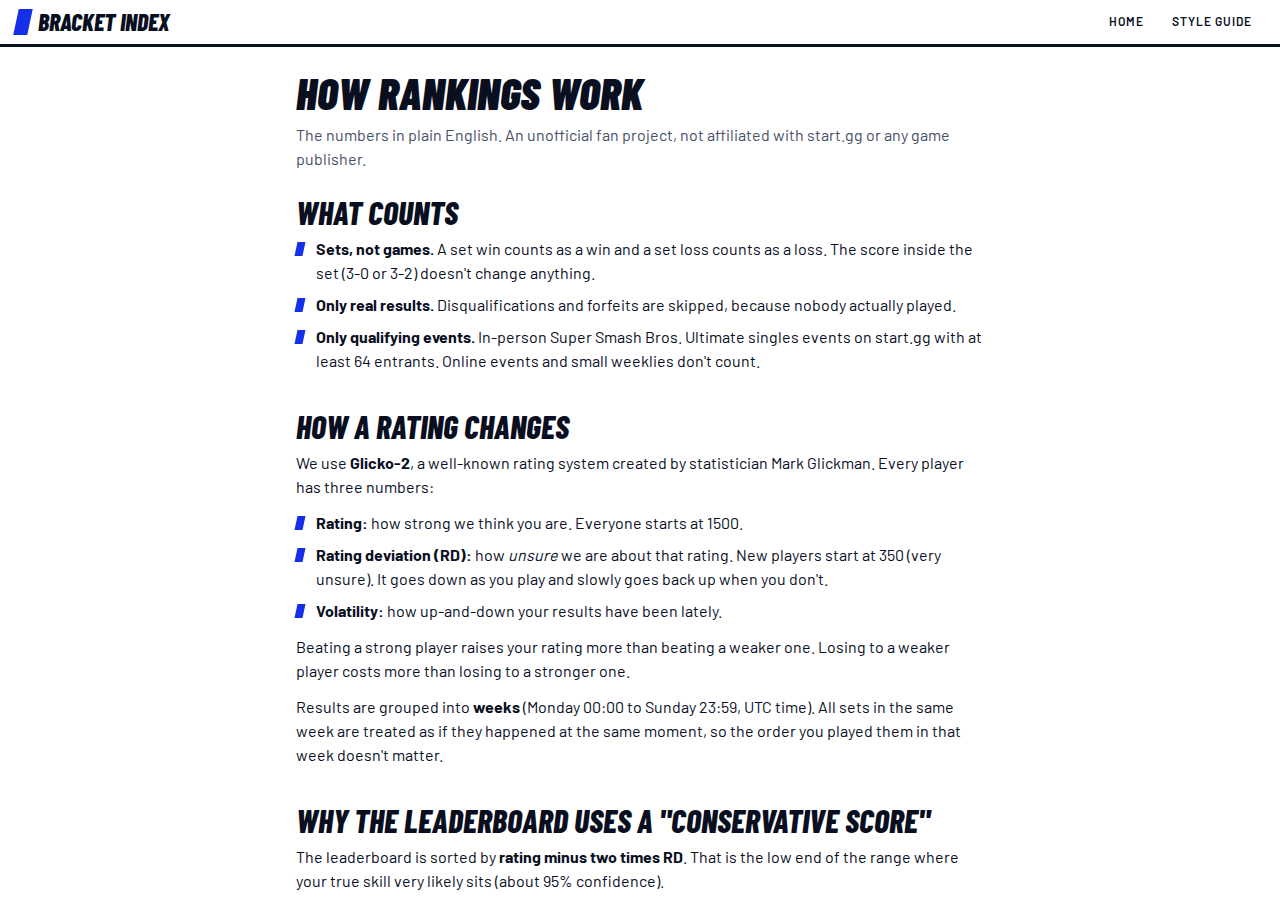
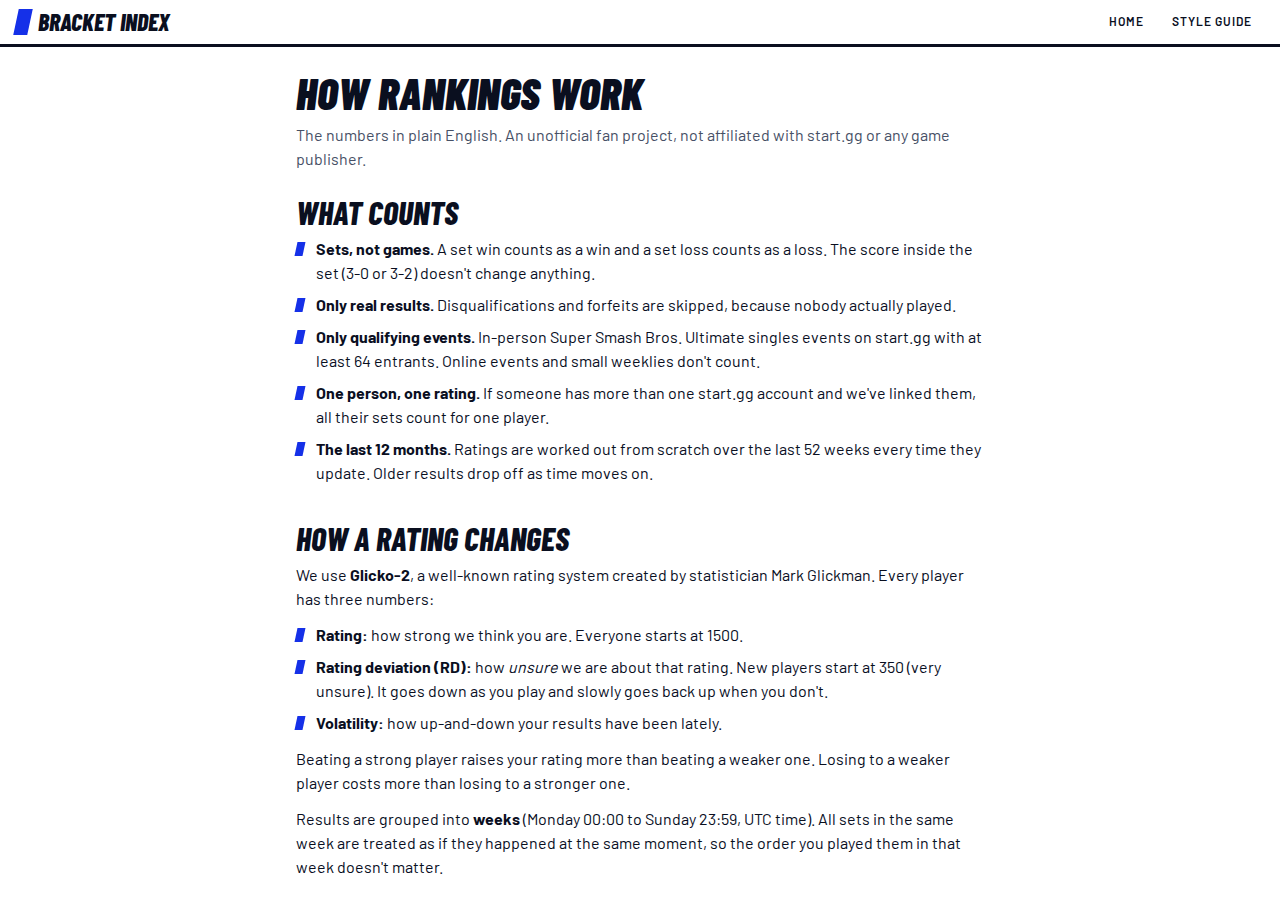
chore(app): resync methodology copy with docs/METHODOLOGY.md; STATUS entry
Claude-Session: https://claude.ai/code/session_01EmiPNYLaxRfYJT2qzBUjng

Changed region(s): [[0.2188, 0.4356, 0.7812, 0.9956]]

diff --git a/apps/app/src/lib/methodologyCopy.ts b/apps/app/src/lib/methodologyCopy.ts
@@ -1,6 +1,6 @@
 /**
  * The fan-friendly methodology text, kept word for word equal to the body of docs/METHODOLOGY.md.
- * methodology.test.ts fails if the two drift apart, so edit the doc first and paste the change here.
+ * markdown.test.ts fails if the two drift apart, so edit the doc first and paste the change here.
  * Plain markdown subset: "## " headings, "- " bullets, **bold**, _italic_, [links](https://...).
  */
 export const METHODOLOGY_MARKDOWN = `## What counts
@@ -8,6 +8,8 @@ export const METHODOLOGY_MARKDOWN = `## What counts
 - **Sets, not games.** A set win counts as a win and a set loss counts as a loss. The score inside the set (3-0 or 3-2) doesn't change anything.
 - **Only real results.** Disqualifications and forfeits are skipped, because nobody actually played.
 - **Only qualifying events.** In-person Super Smash Bros. Ultimate singles events on start.gg with at least 64 entrants. Online events and small weeklies don't count.
+- **One person, one rating.** If someone has more than one start.gg account and we've linked them, all their sets count for one player.
+- **The last 12 months.** Ratings are worked out from scratch over the last 52 weeks every time they update. Older results drop off as time moves on.
 
 ## How a rating changes
 
@@ -32,7 +34,7 @@ This stops a newcomer who wins a few lucky sets from jumping straight to #1. You
 In the last 12 months, a player needs:
 
 - at least **10 rated sets**,
-- at **3 or more qualifying events**,
+- at least **3 qualifying events** (being on an event's results list counts, even if every set you had there was a DQ),
 - and an **RD of 110 or lower** (we are reasonably sure about them).
 
 Everyone is still rated. Players who don't meet these rules just aren't shown on the ranked list yet.
@@ -41,13 +43,18 @@ Everyone is still rated. Players who don't meet these rules just aren't shown on
 
 ## Rank change over 7 days
 
-Next to each rank is how many places the player moved since the ranking one week earlier. A positive number means they moved up. Players who weren't ranked a week ago show as new, with no number.
+Next to each rank is how many places the player moved compared with the ranks at the end of last week (the last update before Monday 00:00 UTC). A positive number means they moved up. Players who weren't ranked at the end of last week show as new, with no number. If the rankings didn't update at all last week, everyone shows as new for that week rather than being compared with an older list.
 
 Ranks can change even in a week you didn't play. Other players' results move them, and your RD grows a little every week you sit out, which lowers your conservative score.
+
+## When the numbers update
+
+The rankings are recalculated after every data refresh (every few hours, hourly on weekends). The current week counts the sets played so far, so it can change until the week ends. Each update replaces the whole list at once, so you never see a half-finished list. "Last active" is the time of the player's most recent counted set.
 
 ## Limits
 
 - **Only start.gg data.** Events run elsewhere are missing.
 - **No context.** The system only sees who beat whom. It doesn't know about injuries, travel, character changes, or sandbagging.
 - **Small regions can drift.** Players who mostly play each other can end up rated high or low compared with other regions until they meet outside players.
-- **It is not UltRank.** UltRank is a well-known community ranking that uses a different method. Our list is an unofficial fan project and will sometimes disagree with it.`;
+- **It is not UltRank.** UltRank is a well-known community ranking that uses a different method. Our list is an unofficial fan project and will sometimes disagree with it.
+`;

diff --git a/e2e/tests/info.spec.ts b/e2e/tests/info.spec.ts
@@ -53,6 +53,7 @@ test.describe("/methodology", () => {
       /conservative score/,
       "Who appears on the leaderboard",
       "Rank change over 7 days",
+      "When the numbers update",
       "Limits",
     ]) {
       await expect(page.getByRole("heading", { level: 2, name })).toBeVisible();

diff --git a/apps/app/src/lib/markdown.test.ts b/apps/app/src/lib/markdown.test.ts
@@ -42,6 +42,7 @@ describe("methodology copy", () => {
       'Why the leaderboard uses a "conservative score"',
       "Who appears on the leaderboard",
       "Rank change over 7 days",
+      "When the numbers update",
       "Limits",
     ]);
   });

diff --git a/STATUS.md b/STATUS.md
@@ -402,4 +402,19 @@ Details are in `docs/monitoring.md`.
    - Add its key ("DSN") as a GitHub Actions secret `SENTRY_DSN`, as `SENTRY_DSN` on the Vercel API project, and as `EXPO_PUBLIC_SENTRY_DSN` on the Vercel app project. That last one is public by design, so it's not a secret.
 2. Sentry's free plan's number of missed-run monitors isn't confirmed. If it's limited, set the GitHub Actions variable `SENTRY_CRONS` to `sync`.
 
+## 2026-10-03 — Phase 1: "How rankings work" and "Data status" pages
+
+**Date:** October 3, 2026
+
+**What changed:**
+
+- **How rankings work** (`/methodology`): the ranking rules in plain English. It covers what counts, how ratings move, why the list uses a "conservative score", who appears, rank changes, and how often the numbers update. The text is the same as `docs/METHODOLOGY.md`, and a test fails if the two ever drift apart.
+- **Data status** (`/status`): when each data job last ran, and whether it worked. This shows at a glance whether the numbers are fresh.
+- Both pages are linked from the footer on every page.
+- The browser tests can now run on other ports, so parallel runs don't collide.
+
+**What's next:** The scheduled data workflow (#16), once the Texas scope is settled, plus its small follow-up that turns on job alerts (`SENTRY_DSN` in the workflow).
+
+**Questions for Clay:** The methodology page still says "at least 64 entrants" and covers all regions. If the Texas-only, 16+ entrant change posted on PR #16 is confirmed, this text changes with it.
+
 **Questions for Genghis:** None.
